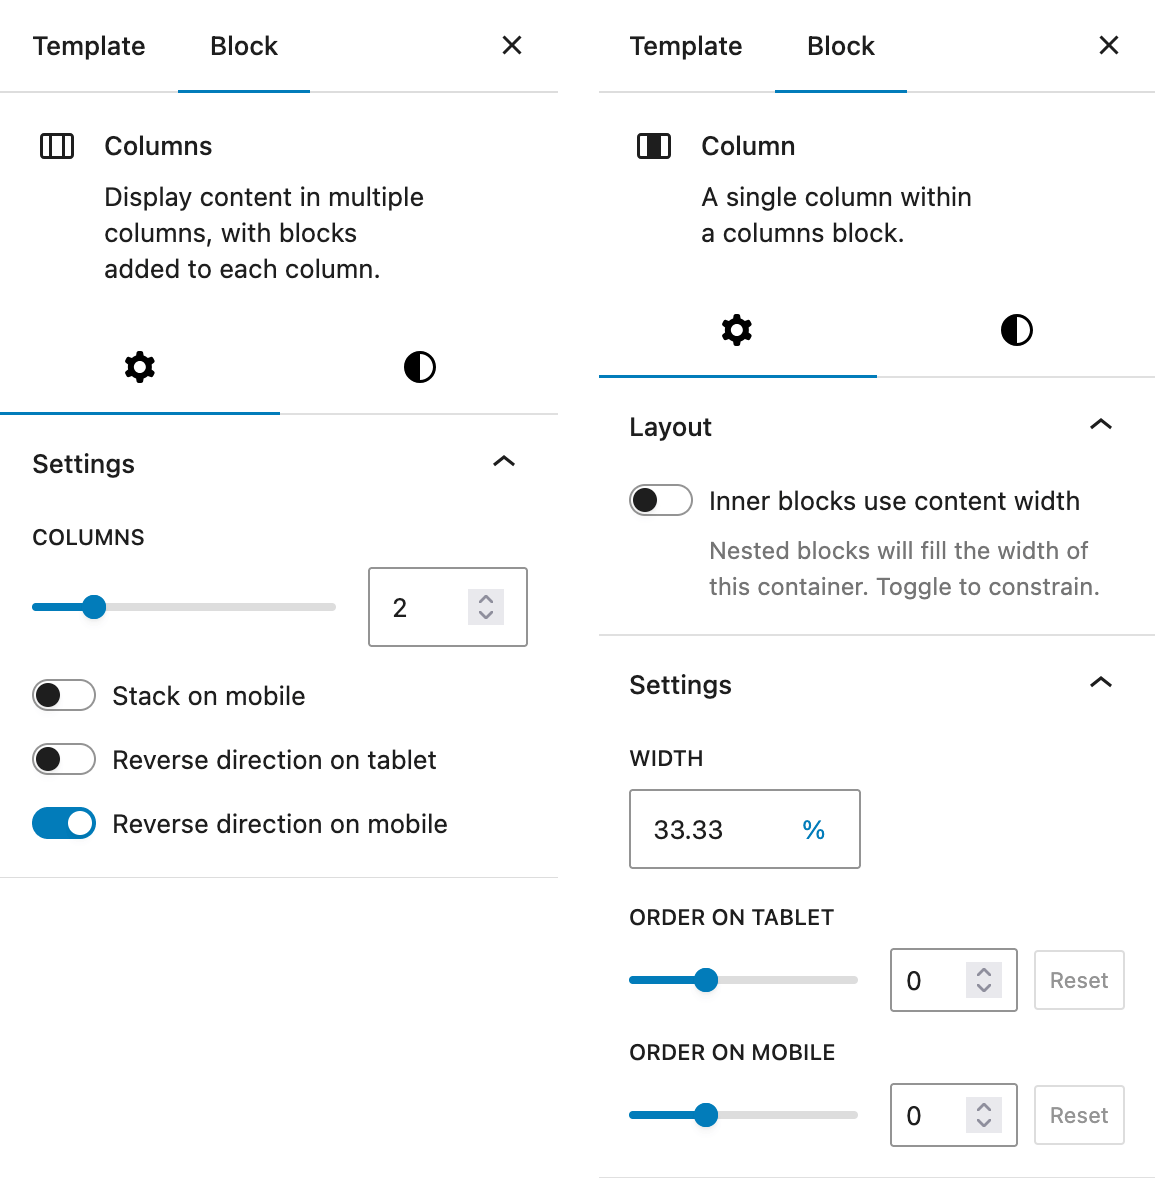
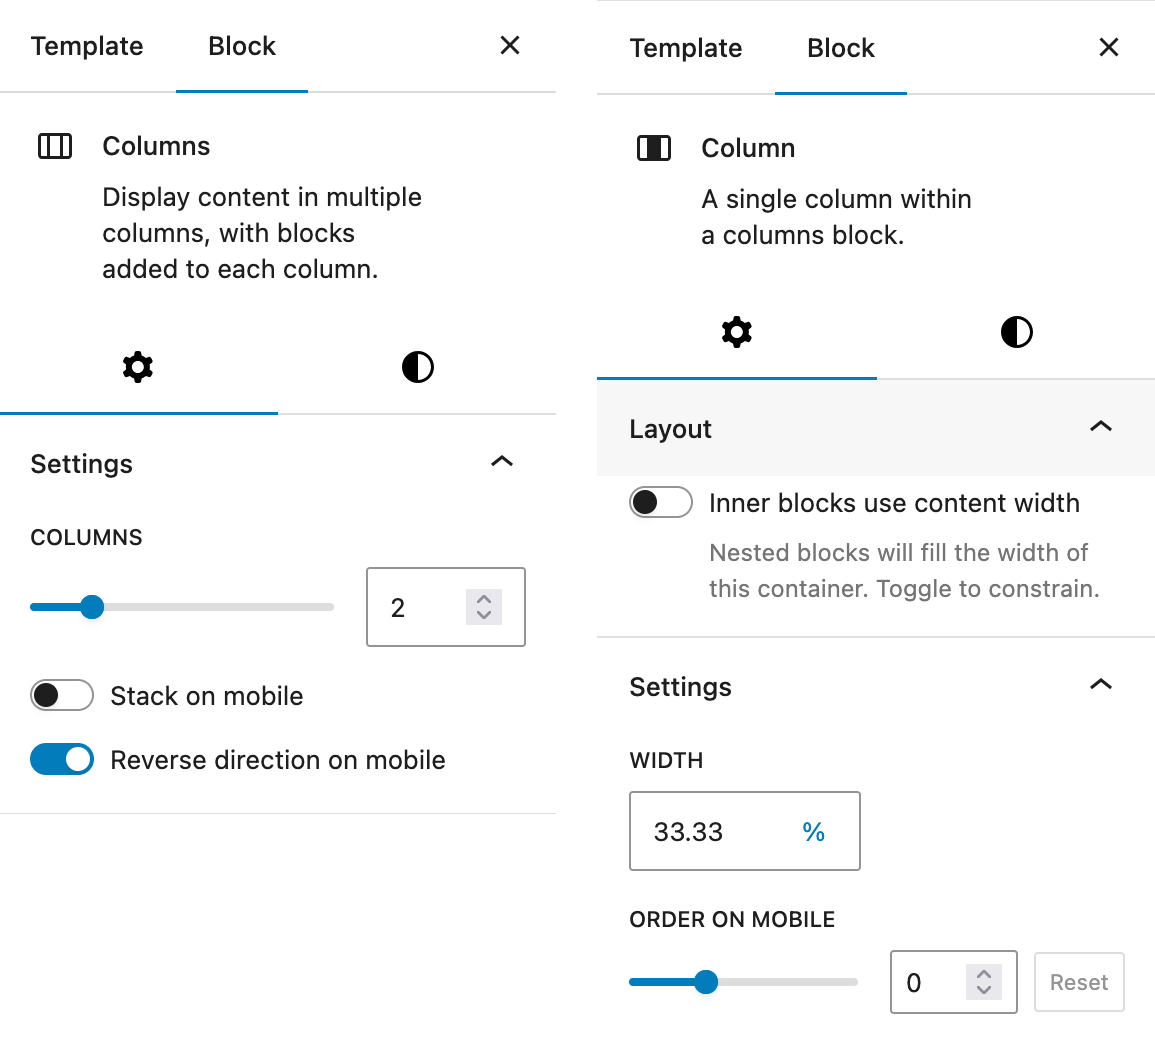
adds tablet controls

diff --git a/build/index.js b/build/index.js
@@ -133,9 +133,9 @@ module.exports = window["wp"]["i18n"];
 var __webpack_exports__ = {};
 // This entry needs to be wrapped in an IIFE because it needs to be isolated against other modules in the chunk.
 (() => {
-/*!**********************!*\
-  !*** ./src/index.js ***!
-  \**********************/
+/*!******************************************************************!*\
+  !*** ../../../../../../../Plugins/mai-column-order/src/index.js ***!
+  \******************************************************************/
 __webpack_require__.r(__webpack_exports__);
 /* harmony import */ var _wordpress_hooks__WEBPACK_IMPORTED_MODULE_0__ = __webpack_require__(/*! @wordpress/hooks */ "@wordpress/hooks");
 /* harmony import */ var _wordpress_hooks__WEBPACK_IMPORTED_MODULE_0___default = /*#__PURE__*/__webpack_require__.n(_wordpress_hooks__WEBPACK_IMPORTED_MODULE_0__);
@@ -170,11 +170,11 @@ __webpack_require__.r(__webpack_exports__);
       ...settings,
       attributes: {
         ...settings.attributes,
-        isReversedDirectionOnMobile: {
+        isReversedDirectionOnTablet: {
           type: 'boolean',
           default: false
         },
-        isReversedDirectionOnTablet: {
+        isReversedDirectionOnMobile: {
           type: 'boolean',
           default: false
         }
@@ -352,11 +352,11 @@ __webpack_require__.r(__webpack_exports__);
     // Handle column block.
     if ('core/column' === name) {
       const style = {};
-      if (orderMobile) {
-        style['--order-mobile'] = String(orderMobile);
-      }
       if (orderTablet) {
         style['--order-tablet'] = String(orderTablet);
+      }
+      if (orderMobile) {
+        style['--order-mobile'] = String(orderMobile);
       }
       if (Object.keys(style).length) {
         return /*#__PURE__*/(0,react_jsx_runtime__WEBPACK_IMPORTED_MODULE_5__.jsx)(BlockListBlock, {

diff --git a/src/index.js b/src/index.js
@@ -21,11 +21,11 @@ addFilter(
 				...settings,
 				attributes: {
 					...settings.attributes,
-					isReversedDirectionOnMobile: {
+					isReversedDirectionOnTablet: {
 						type: 'boolean',
 						default: false,
 					},
-					isReversedDirectionOnTablet: {
+					isReversedDirectionOnMobile: {
 						type: 'boolean',
 						default: false,
 					},
@@ -196,12 +196,12 @@ addFilter(
 			if ('core/column' === name) {
 				const style = {};
 
-				if (orderMobile) {
-					style['--order-mobile'] = String(orderMobile);
-				}
-
 				if (orderTablet) {
 					style['--order-tablet'] = String(orderTablet);
+				}
+
+				if (orderMobile) {
+					style['--order-mobile'] = String(orderMobile);
 				}
 
 				if (Object.keys(style).length) {

diff --git a/build/index.asset.php b/build/index.asset.php
@@ -1,1 +1,1 @@
-<?php return array('dependencies' => array('react-jsx-runtime', 'wp-block-editor', 'wp-components', 'wp-compose', 'wp-hooks', 'wp-i18n'), 'version' => 'b174419f7e5a540b0386');
+<?php return array('dependencies' => array('react-jsx-runtime', 'wp-block-editor', 'wp-components', 'wp-compose', 'wp-hooks', 'wp-i18n'), 'version' => '217603b8d994ef948bee');
